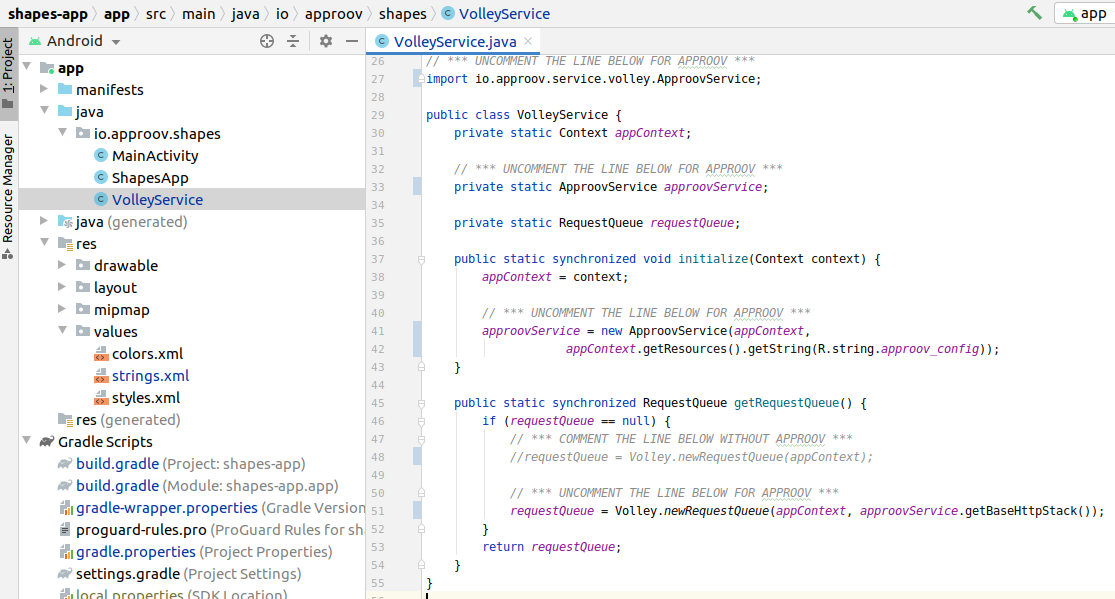
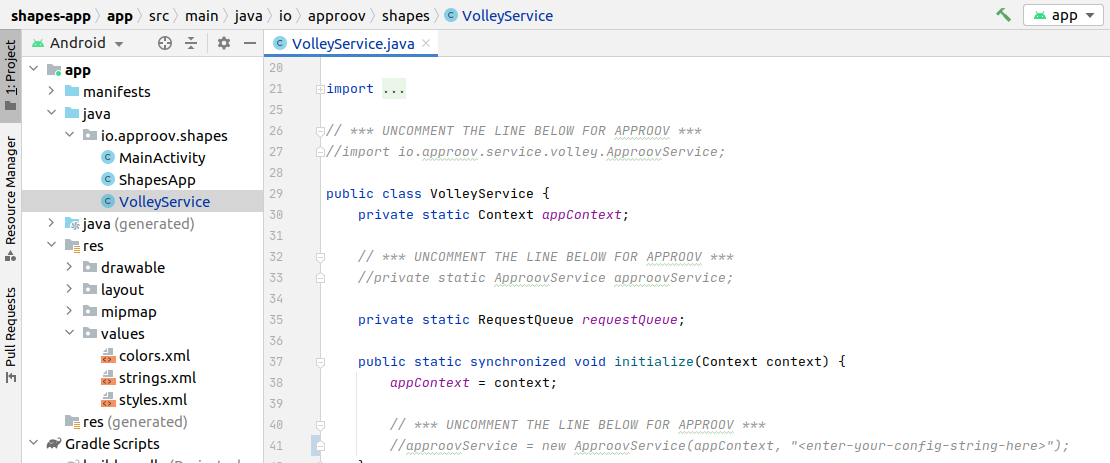
Use the short init string

diff --git a/shapes-app/app/src/main/java/io/approov/shapes/VolleyService.java b/shapes-app/app/src/main/java/io/approov/shapes/VolleyService.java
@@ -38,8 +38,7 @@ public class VolleyService {
         appContext = context;
 
         // *** UNCOMMENT THE LINE BELOW FOR APPROOV ***
-        //approovService = new ApproovService(appContext,
-        //            appContext.getResources().getString(R.string.approov_config));
+        //approovService = new ApproovService(appContext, "<enter-your-config-string-here>");
     }
 
     public static synchronized RequestQueue getRequestQueue() {

diff --git a/README.md b/README.md
@@ -2,6 +2,10 @@
 
 This quickstart is written specifically for native Android apps that are written in Java and use [`Volley`](https://developer.android.com/training/volley) for making the API calls that you wish to protect with Approov. If this is not your situation then check if there is a more relevant Quickstart guide available.
 
+This quickstart provides a step-by-step example of integrating Approov into an app using a simple `Shapes` example that shows a geometric shape based on a request to an API backend that can be protected with Approov.
+
+It is also possible to use Approov in `Discovery` mode to perform an initial assessment of your app user base and whether there are requests being made to your backend API that are not coming from your mobile apps. This mode allows a simpler initial integration. If you wish to implement this first then follow the steps [here](https://github.com/approov/approov-service-volley) up to and including the `Discovery Mode` section.
+
 ## WHAT YOU WILL NEED
 * Access to a trial or paid Approov account
 * The `approov` command line tool [installed](https://approov.io/docs/latest/approov-installation/) with access to your account
@@ -66,6 +70,8 @@ implementation 'com.github.approov:approov-service-volley:x.y.z'
 
 You can see the latest in the `README` at [`approov-service-volley`](https://github.com/approov/approov-service-volley).
 
+Make sure you do a Gradle sync (by selecting `Sync Now` in the banner at the top of the modified `.gradle` file) after making these changes.
+
 Note that `approov-service-volley` is actually an open source wrapper layer that allows you to easily use Approov with `Volley`. This has a further dependency to the closed source Approov SDK itself.
 
 ## ENSURE THE SHAPES API IS ADDED
@@ -75,18 +81,6 @@ In order for Approov tokens to be generated for `https://shapes.approov.io/v2/sh
 approov api -add shapes.approov.io
 ```
 Tokens for this domain will be automatically signed with the specific secret for this domain, rather than the normal one for your account.
-
-## SETUP YOUR APPROOV CONFIGURATION
-
-The Approov SDK needs a configuration string to identify the account associated with the app. Obtain it using:
-```
-approov sdk -getConfig initial-config.txt
-```
-Copy and paste the `initial-config.txt` file content into a new created `approov_config` string resource entry as shown (the actual entry will be much longer than shown).
-
-![Initial Config String](readme-images/initial-config.png)
-
-The app reads this string to initialize the Approov SDK.
 
 ## MODIFY THE APP TO USE APPROOV
 
@@ -98,7 +92,12 @@ Uncomment the various lines needed to use Approov in `io/approov/shapes/VolleySe
 
 The `VolleyService` provides a singleton `RequestQueue` that is created on demand. This is a typical pattern for using `Volley`. The changes shown here cause the request queue to be constructed with a specialized `BaseHttpStack` that automatically adds Approov tokens to the requests and pins the connections to ensure that no Man-in-the-Middle can eavesdrop on any communication being made.
 
-The initialization is also extended to initialize the underlying `Approov` SDK with the configuration string added earlier.
+The Approov SDK needs a configuration string to identify the account associated with the app. Obtain it using:
+
+```
+approov sdk -getConfigString
+```
+This will output a configuration string, something like `#123456#K/XPlLtfcwnWkzv99Wj5VmAxo4CrU267J1KlQyoz8Qo=`, that will identify your Approov account. Copy this into `io/approov/shapes/VolleyService.java:41`, replacing the text `<enter-your-config-string-here>`.
 
 Run the app again to ensure that the `app-debug.apk` in the generated build outputs is up to date.
 
